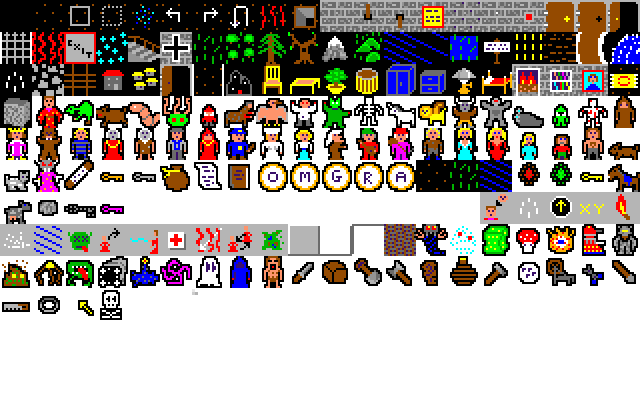
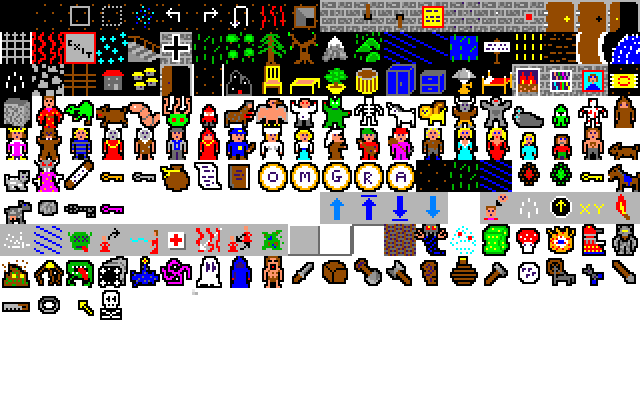
Journal Buttons and smaller spell window

Changed region(s): [[0.5, 0.48, 0.7188, 0.57]]

diff --git a/core/src/mindmelt/game/screens/PlayScreen.java b/core/src/mindmelt/game/screens/PlayScreen.java
@@ -153,10 +153,10 @@ public class PlayScreen implements Screen, InputProcessor {
     }
 
     private void setupJournalButtons(){
-        journalWindow.addElement(new JournalButton(19,0,131,"Top", new JournalTopAction()));
-        journalWindow.addElement(new JournalButton(19,1,130,"Up", new JournalUpAction()));
-        journalWindow.addElement(new JournalButton(19,2,133,"Down", new JournalDownAction()));
-        journalWindow.addElement(new JournalButton(19,3,132,"Bottom", new JournalBottomAction()));
+        journalWindow.addElement(new JournalButton(19,0,131,"Go To Top ", new JournalTopAction()));
+        journalWindow.addElement(new JournalButton(19,1,130,"Scroll Up", new JournalUpAction()));
+        journalWindow.addElement(new JournalButton(19,2,133,"Scroll Down", new JournalDownAction()));
+        journalWindow.addElement(new JournalButton(19,3,132,"Go To Bottom", new JournalBottomAction()));
     }
 
     private void setSpellButtons(ObjPlayer player, boolean isNew) {
